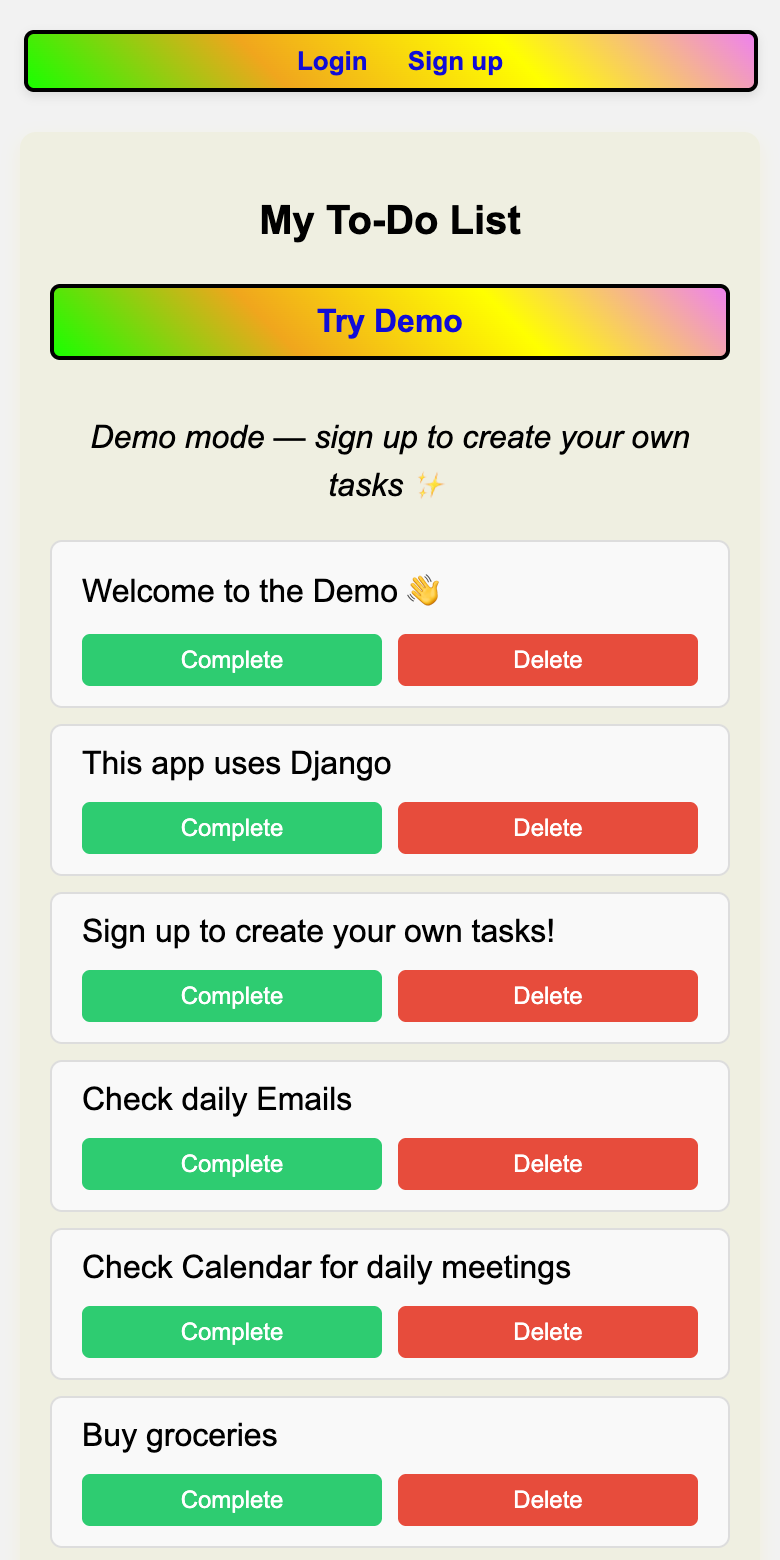
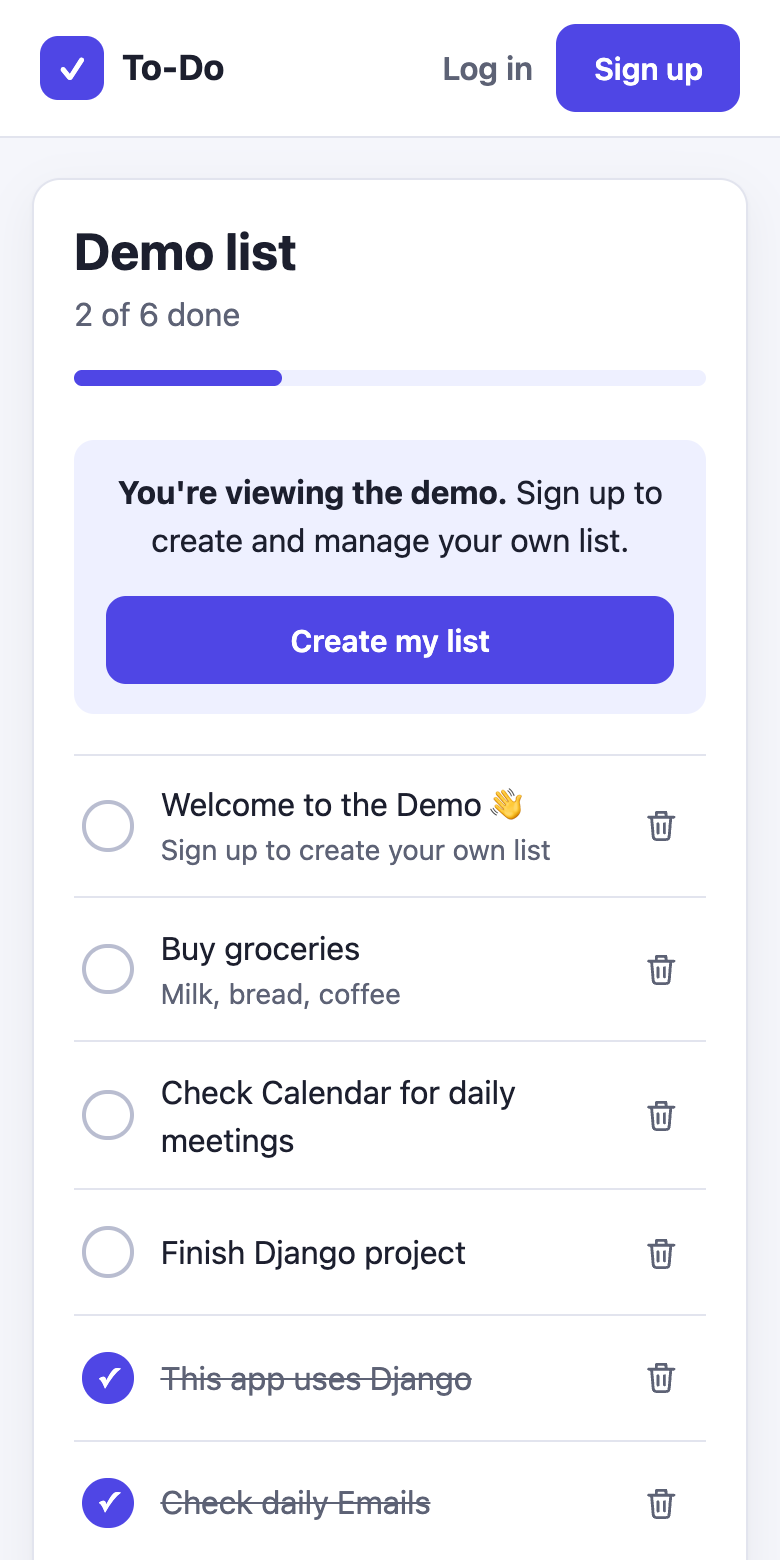
Demo data with notes and finished tasks; new screenshots

diff --git a/todo_project/tasks/management/commands/seed_demo.py b/todo_project/tasks/management/commands/seed_demo.py
@@ -3,14 +3,14 @@ from django.core.management.base import BaseCommand
 
 from tasks.models import Task
 
+# (title, note, done) — a few are done so the demo shows ticks and progress
 DEMO_TASKS = [
-    'Welcome to the Demo 👋',
-    'This app uses Django',
-    'Sign up to create your own tasks!',
-    'Check daily Emails',
-    'Check Calendar for daily meetings',
-    'Buy groceries',
-    'Finish Django project',
+    ('Welcome to the Demo 👋', 'Sign up to create your own list', False),
+    ('Buy groceries', 'Milk, bread, coffee', False),
+    ('Check Calendar for daily meetings', '', False),
+    ('Finish Django project', '', False),
+    ('This app uses Django', '', True),
+    ('Check daily Emails', '', True),
 ]
 
 
@@ -22,6 +22,10 @@ class Command(BaseCommand):
         if created:
             user.set_unusable_password()  # nobody can log in as the demo user
             user.save()
-        for title in DEMO_TASKS:
-            Task.objects.get_or_create(user=user, title=title)
+        for title, note, done in DEMO_TASKS:
+            Task.objects.get_or_create(
+                user=user,
+                title=title,
+                defaults={'description': note, 'completed': done},
+            )
         self.stdout.write(self.style.SUCCESS('Demo data ready.'))
